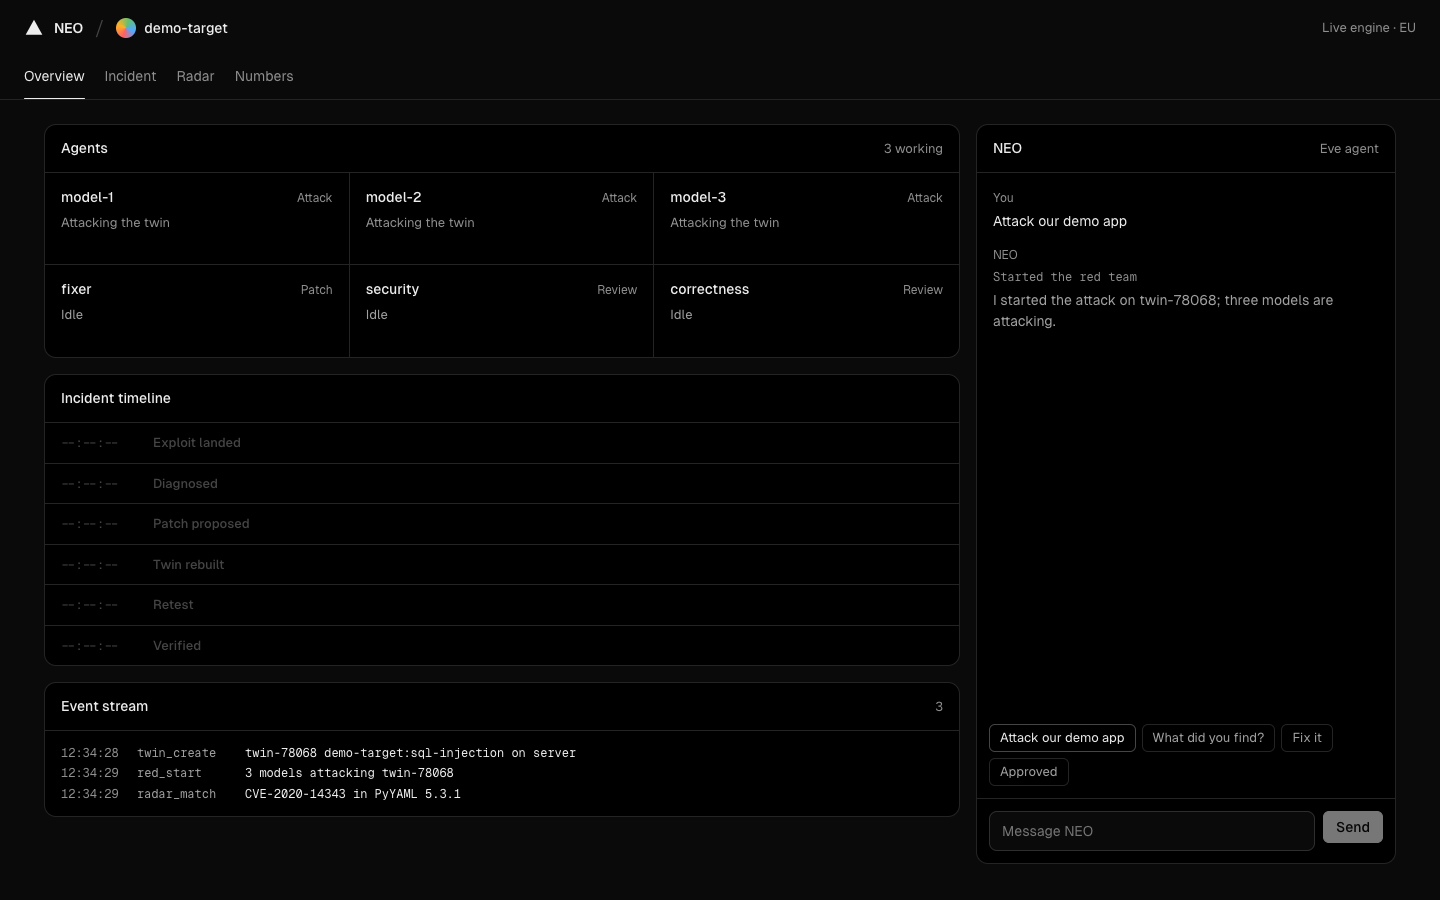
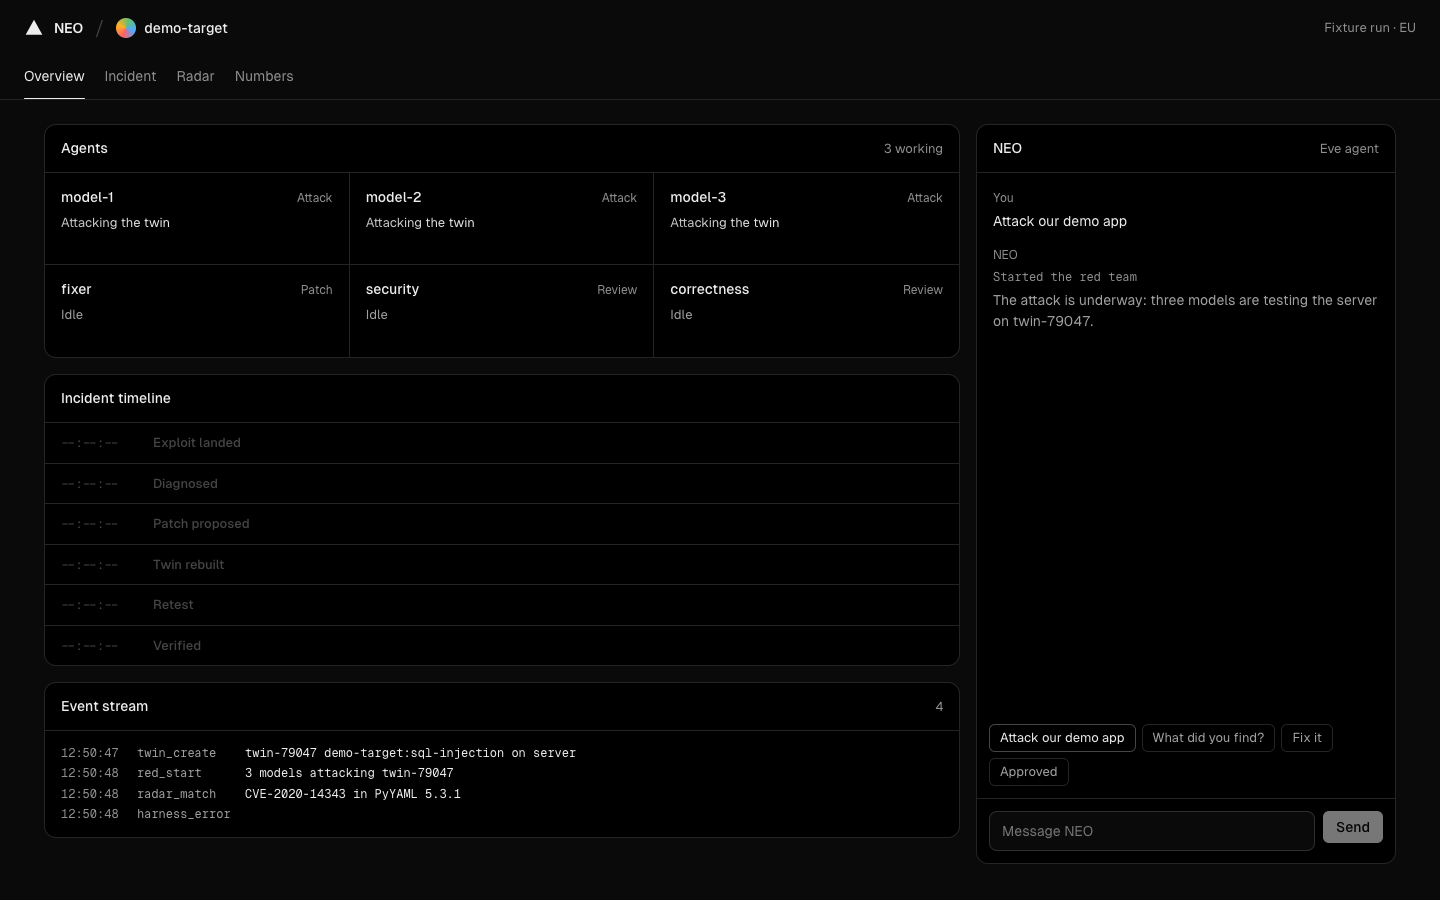
perf: composited pulse instead of repainting shimmers, solid header; contrast on pending rows

Changed region(s): [[0.6875, 0.3111, 0.9375, 0.3733], [0.0312, 0.8711, 0.1562, 0.9333]]

diff --git a/app/globals.css b/app/globals.css
@@ -25,7 +25,7 @@ button, input, textarea { font: inherit; color: inherit; }
 
 /* shell */
 .app { display: grid; grid-template-rows: auto 1fr; height: 100dvh; }
-.top { position: sticky; top: 0; z-index: 10; background: rgba(10, 10, 10, .8); backdrop-filter: saturate(1.8) blur(12px); border-bottom: 1px solid var(--line); }
+.top { position: sticky; top: 0; z-index: 10; background: var(--bg); border-bottom: 1px solid var(--line); }
 .bar { display: flex; align-items: center; gap: 12px; height: 56px; padding: 0 24px; }
 .logo { display: flex; align-items: center; gap: 10px; font-weight: 600; letter-spacing: -.01em; }
 .logo svg { width: 20px; height: 20px; }
@@ -57,8 +57,8 @@ button, input, textarea { font: inherit; color: inherit; }
 .card-h .end { margin-left: auto; color: var(--muted); font-size: var(--t-13); font-weight: 400; }
 .empty { display: grid; place-items: center; gap: 4px; padding: 40px 16px; color: var(--muted); text-align: center; font-size: var(--t-13); }
 .empty strong { color: var(--fg); font-weight: 500; font-size: var(--t-14); }
-.skel { height: 14px; border-radius: 4px; background: linear-gradient(90deg, var(--hover) 25%, var(--active) 37%, var(--hover) 63%); background-size: 400% 100%; animation: shimmer 1.4s ease infinite; }
-@keyframes shimmer { 0% { background-position: 100% 50%; } 100% { background-position: 0 50%; } }
+.skel { height: 14px; border-radius: 4px; background: var(--active); animation: pulse 1.4s ease-in-out infinite; }
+@keyframes pulse { 50% { opacity: .45; } }
 
 /* overview */
 .grid-2 { display: grid; grid-template-columns: minmax(0, 1fr) 420px; gap: 16px; align-items: start; }
@@ -72,8 +72,7 @@ button, input, textarea { font: inherit; color: inherit; }
 .agent-h .role { margin-left: auto; color: var(--muted); font-size: var(--t-12); }
 .agent p { color: var(--soft); font-size: var(--t-13); line-height: 1.45; }
 .agent.busy p { color: var(--fg); }
-.shimmer-text { background: linear-gradient(90deg, var(--muted) 0%, var(--fg) 40%, var(--muted) 80%); background-size: 200% 100%; -webkit-background-clip: text; background-clip: text; color: transparent !important; animation: sweep 1.6s linear infinite; }
-@keyframes sweep { from { background-position: 100% 0; } to { background-position: -100% 0; } }
+.shimmer-text { color: var(--fg) !important; animation: pulse 1.6s ease-in-out infinite; }
 
 /* timeline, build-log style */
 .rows { display: grid; }
@@ -81,7 +80,7 @@ button, input, textarea { font: inherit; color: inherit; }
 .row:first-child { border-top: 0; }
 .row .at { font-family: var(--mono); font-size: var(--t-12); color: var(--muted); }
 .row .label { font-weight: 500; }
-.row.pending .label, .row.pending .at { color: var(--line-3); }
+.row.pending .label, .row.pending .at { color: #767676; font-weight: 400; }
 .row .detail { color: var(--soft); min-width: 0; overflow: hidden; text-overflow: ellipsis; white-space: nowrap; }
 .log { font-family: var(--mono); font-size: var(--t-12); line-height: 1.7; padding: 12px 16px; max-height: 240px; overflow: auto; }
 .log div { display: grid; grid-template-columns: 64px 96px minmax(0, 1fr); gap: 12px; }
@@ -140,7 +139,6 @@ tbody tr:hover { background: var(--hover); }
 @keyframes enter { from { opacity: 0; transform: translateY(6px); } to { opacity: 1; transform: none; } }
 @media (prefers-reduced-motion: reduce) {
   *, *::before, *::after { animation-duration: 1ms !important; animation-iteration-count: 1 !important; transition-duration: 1ms !important; }
-  .shimmer-text { color: var(--fg) !important; background: none; }
 }
 
 @media (max-width: 1100px) { .grid-2, .split-3 { grid-template-columns: 1fr; } .chat { height: 560px; } }
